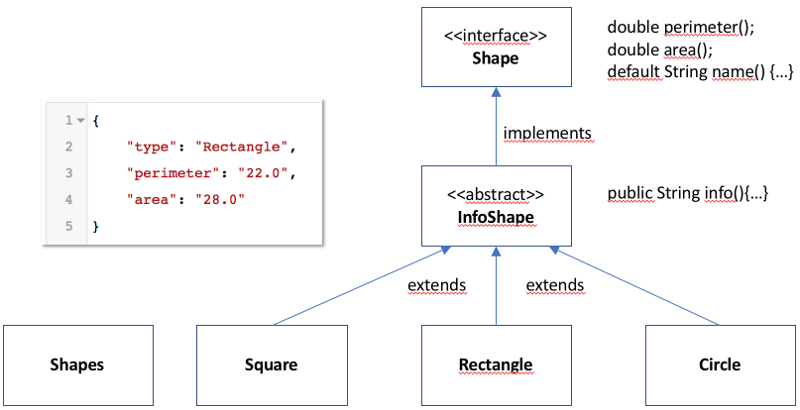
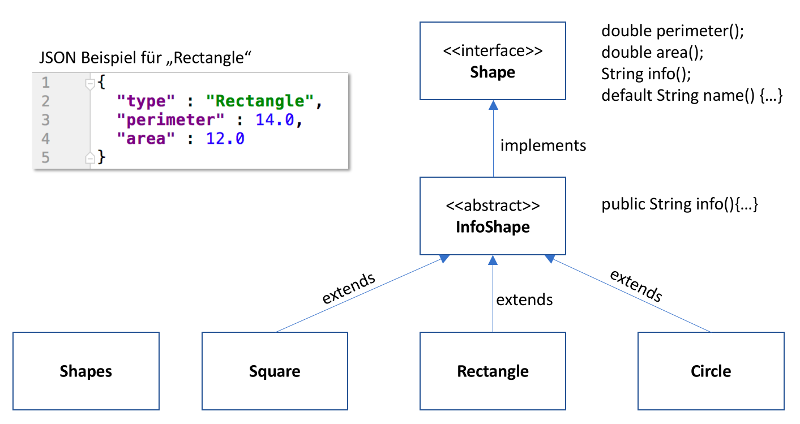
Verzeichnisse forcieren

diff --git a/templates/ShapeApp.java b/templates/ShapeApp.java
@@ -1,0 +1,33 @@
+package com.cgi.bootcamp.practice;
+
+import com.cgi.bootcamp.practice.shapes.Shape;
+
+import static com.cgi.bootcamp.practice.shapes.Shapes.circle;
+import static com.cgi.bootcamp.practice.shapes.Shapes.rectangle;
+import static com.cgi.bootcamp.practice.shapes.Shapes.square;
+
+import java.util.ArrayList;
+import java.util.List;
+import java.util.Optional;
+
+/**
+ * Verschiebe diese Klasse in das entsprechende Package im 'src/main/java' Verzeichnis des Projektes.
+ * Wenn Du alle Aufgaben bisher korrekt ausgeführt hast, sollte das Programm kompilieren und sich ausführen lassen.
+ * Sollte es Compile-Probleme geben, versuche Deinen Code compatibel zu machen.
+ * Validiere die Ausgabe mit https://jsonlint.com/
+ */
+public class ShapeApp {
+	public static void main(String[] args) {
+
+		List<Shape> shapes = new ArrayList<>();
+		shapes.add(square(5));
+		shapes.add(rectangle(3, 4));
+		shapes.add(circle(7));
+
+		Optional<String> shapeSnippets = (Optional<String>) shapes.stream()
+				.map(Shape::info)
+				.reduce((a, b) -> a + ",\n" + b);
+
+		shapeSnippets.ifPresent(snippets -> System.out.println("["+snippets+"]"));
+	}
+}

diff --git a/README.md b/README.md
@@ -4,9 +4,12 @@ Java Programmierübung
 Überblick
 ----------
 In dieser Programmieraufgabe soll eine Art Taschenrechner für geometrische 
-Objekte erstellt werden. Dieses Projekt gibt dabei einen Rahmen vor und im 
+Objekte (Shapes) erstellt werden. Dieses Projekt gibt dabei einen Rahmen vor und im 
 Folgenden wird schrittweise beschrieben, was zu tun ist. Die vorgegebenen 
-Methodensignaturen dürfen nicht verändert werden.
+Methodensignaturen dürfen nicht verändert werden, die bestehenden Interfaces 
+und Klassen dürfen aber erweitert werden (z.B. zusätzliche Methoden, Konstruktoren und Attribute)
+Es ist auf durchgängigen CodeStyle, gute Struktur und Übersichtlichkeit zu achten.
+An sinnvollen Stellen kann JavaDoc hinzugefügt werden. 
 
 technische Voraussetzungen:
 ---------------------------
@@ -21,8 +24,103 @@ dargestellt.
 Im Interface **Shape** werden die wichtigen Eigenschaften festgelegt , die alle Shapes 
 gemeinsam haben. 
 In der abstrakten **InfoShape** Klasse wird die *info* Methode implementiert, 
-welche die im Interface festgelegten Template-Methoden aufrufen kann um für 
-alle konkreten Shapes (Circle, Rectangle usw.) einen Beschreibungsstring im 
+welche die im Interface festgelegten Template-Methoden(1. template) aufrufen kann um für 
+alle konkreten Shapes (Circle, Rectangle usw.) einen Beschreibungs-String im 
 JSON Format auszugeben. (links in der Grafik am Beispiel von **Rectangle** dargestellt) 
 
-![UML Diagramm](src/main/resources/UML.png)
+![UML Diagramm](src/main/resources/UML.png) (2. UML Klassendiagramm)
+
+Aufgabenstellung:
+-----------------
+1. **Projektstruktur**  
+Zuerst wird dieses Projekt um die nötigen Packages erweitert.
+
+- lege im src/main/java -Ordner folgendes Base-Package an: "com.cgi.bootcamp.practice". Alle 
+in diesem Projekt erstellten Klassen liegen in dem Base-Package oder in dort enthaltenen 
+Unter-Packages
+- erstelle das Package "shapes" innerhalb des Base-Package
+- lege dieselben Packages unter "src/test/java" an.
+
+2. **programmieren der Shapes**  
+Setze die im Diagramm angegebene Klassenstruktur in JavaCode um. Nutze das "shapes"-Package für alle Klassen und Interfaces.
+- Die Interfacemethoden von **Shape** sind im Diagramm neben dem Interface aufgelistet.
+Beachte, daß die *name*-Methode im Interface als 'default' Methode auch implementiert wird.
+Es soll der simple Klassenname als String zurückgegeben werden (also *'Circle'* für die Klasse de.cgi.bootcamp.shapes.**Circle** )
+Hilfreich dafür ist eine Methode der Klasse **Class**
+- InfoShape implementiert das **Shape**-Interface nur teilweise, denn es wird dort nur die _Info_-Methode implementiert. 
+Unter Verwendung der Templatemethoden aus dem Interface soll ein JSON-formatierter String zurückgegeben werden, wie er am 
+Beispiel **Rectangle** links im Diagramm angegeben ist. Für die Ausgabe der _Double_-Werte soll auf zwei Nachkommastellen gerundet werden.
+- Die konkreten Shapes **Square**, **Rectangle** und **Circle** sollen als Datenobjekte umgesetzt werden. So sollen z.B. am Rechteck
+die Attribute Länge und Breite vom Typ *double* über einen Konstruktor initialisiert werden. 
+- Bei der Umsetzung von *perimeter* und *area* gibt es mehrere Alternativen, die sich in Performance, Speicherbedarf und Einfachheit unterscheiden.
+Wäge ab und wähle eine Option durchgängig für alle Implementierungen. Erläutere deine Entscheidung kurz in einem Inline-Kommentar. 
+- erstelle eine **Shapes** Factory mit statischen Factorymethoden (3. factory) zum Erstellen aller konkreten Shapes:  
+    z.B. *public static Rectangle rectangle(double x, double y){...}*  
+Es gibt mehrere Möglichkeiten, zu verhindern daß Instanzen dieser Factoryklasse angelegt werden können (4. instantiation ;) . Wähle eine Möglichkeit für die Umsetzung aus.
+    
+3. **Tests**  
+In diesem Projekt wird absichtlich auf die Verwendung von TestFrameworks wie _TestNG_ oder _JUnit_ verzichtet, wir werden aber dennoch eine kleine Testanwendung schreiben. 
+
+- Lege im von Dir erstellten Test-Package die Klasse **ShapeTest** an.
+- Wir wollen in diesem Test die berechneten Werte von _area_ und _perimeter_ überprüfen. Dazu legen wir zuerste eine Methode an,
+welche *double* Werte auf gleichheit prüft und als Ergebnis "true" zurückgibt, wenn die Werte gleich sind, ansonsten "false".  
+    **private boolean checkEqual(double actual, double expected, String text)**  
+- die _checkEqual_ Methode soll z.B. folgenden Text auf der Konsole ausgeben, wenn sqare.area ein falsches Ergebnis zurückliefert  
+    **square(3.0).area should be 9.0 but was: 3.0**
+- Für jede konkrete Shape-Klasse wird eine testmethode angelegt:  
+    **public boolean testSquare(double length, double expectedArea, double expectedPerimeter)**  
+Als Parameter werden alle Werte übergeben, die für die Instanziierung benötigt werden und die erwarteten Ergebniswerte.
+Die Testmethode erstellt eine Instanz des konkreten **Shape**s.
+Unter Verwendung der _checkEqual_ Methode soll dann die erwarteten Werte überprüft und _true_ oder im Fehlerfall _false_ zurückgegeben werden.
+- Zuletzt wird eine _main_ Methode angelegt, welche alle Testmethoden der Reihe nach aufruft und die Ergebnisse zusammenfasst. Im gesamt-Erfolgsfall soll dann
+"Tests SUCCEEDED" auf der Konsole ausgegeben werden, im Fehlerfall soll "Tests FAILED!" auf dem standard *error* PrintStream ausgegeben werden.
+
+4. **Der Geometrie Rechner**  
+Als nächstes soll eine ausführbare Klasse erstellt werden, welche uns eine sehr einfache Oberfläche zur Berechnung von Shapes bietet. 
+Dieses Programm wird von der Kommandozeile bedient und fragt in einer Schleife einige Eingabeparameter ab um anschließend das Ergebnis 
+wieder auf der Konsole auszugeben.
+
+- Als Vorübung verschiebe bitte die Klasse *ShapeApp* aus dem 'template' Verzeichnis in das korrekte Package unter src/main/java.
+- Führe die Main-Methode aus und überprüfe die Ausgabe: sind die Zahlenwerte auf maximal zwei nachkommastellen gerundet und ohne Anführungszeichen ausgegeben?
+- überprüfe die Ausgabe auf dieser Webseite: <https://jsonlint.com/>, es sollte valides JSON sein.
+- Erstelle nun eine eigene Klasse **GeometryCalculator** im Base-Package.
+- Erstelle eine *main*-Methode, in der eine Instanz des **GeometryCalculator** erzeugt und ein kurzer Informationstext ausgegeben wird. 
+Dann soll die später zu erstellende Methode _handleConsoleInOut()_ aufgerufen und eine Ende-Nachricht ausgegeben werden.
+- als nächstes erstellen wir _handleConsoleInOut()_, welche in einer Schleife die Programm Ein-/Ausgaben behandelt, bis der Benutzer durch die ENTER-Taste das Programm beendet. 
+- Um von der Konsole lesen zu können, benötigen wir einen **new BufferedReader(new InputStreamReader(System.in))**
+- In einer Schleife lesen wir vom **BufferedReader** jeweils eine Zeile Benutzereingabe. Damit der Benutzer auch weiß, welche Befehle zur Verfügung stehen, 
+soll vor jedem Durchlauf ein kurzes Menü ausgegeben werden:
+    ```
+    Choose your shape: (ENTER to exit)
+    s: Square
+    r: Rectangle
+    c: Circle
+    ```
+- Anhand der Benutzereingabe soll mit einer _Switch_-Anweisung in spezielle Methoden verzweigt werden, in welchen die weiteren Parameter abgefragt werden, ein entsprechennden Shape angelegt und das _info_ JSON ausgeben wird.
+- Danach soll wieder das Menü ausgegeben werden und erneut die Eingabe bearbeitet werden, bis der Anwender das Programm mit der _ENTER_ Taste beendet.
+- Überlege, wie mit fehlerhaften Benutzereingaben umgegangen werden kann und achte auf eine benutzerfreundliche Fehlerbehandlung.
+
+Zusatzaufgaben:
+---------------
+- Erweitere die Klassen so, daß in der JSON Darstellung auch die Eingabeparameter (Länge, Breite etc.) des Shapes ausgegeben werden, wie in folgendem Beispiel:
+```json
+{   
+    "type" : "Square",  
+    "perimeter" : 88.0,  
+    "area" : 484.0,  
+    "parameters" : {  
+        "length" : "22"  
+    }   
+}
+```
+
+- Schreibe ein Main-Programm, welches die Liste (templates/shapes.txt) einliest und die Shapes einmal aufsteigend nach ihrer Fläche sortiert ausgibt und anschließend aufsteigend nach dem Umfang.
+
+Links  
+---------
+Dir folgenden Links dienen für die Erläuterung der oben angesprochenen Konzepte:   
+1. (template) <https://www.baeldung.com/java-template-method-pattern>  
+2. (UML Klassendiagramm) <https://de.wikipedia.org/wiki/Klassendiagramm>
+3. (factory) <https://www.baeldung.com/java-constructors-vs-static-factory-methods>
+4. (instantiation ;) <http://lmgtfy.com/?q=prevent+instantiation+of+class>
+5. (JSON linter) <https://jsonlint.com/>
